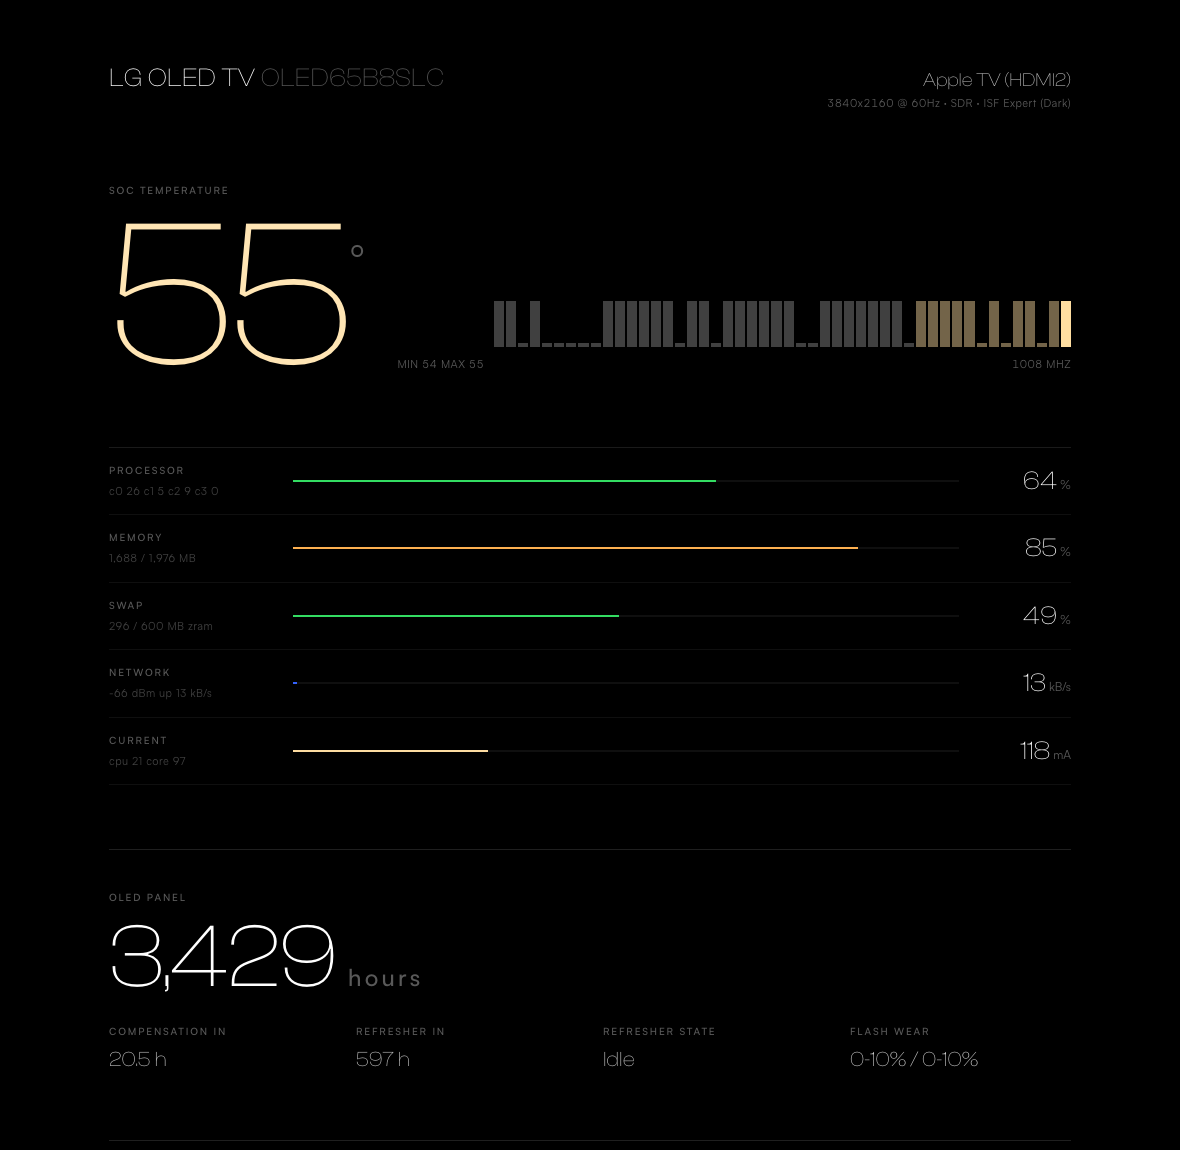
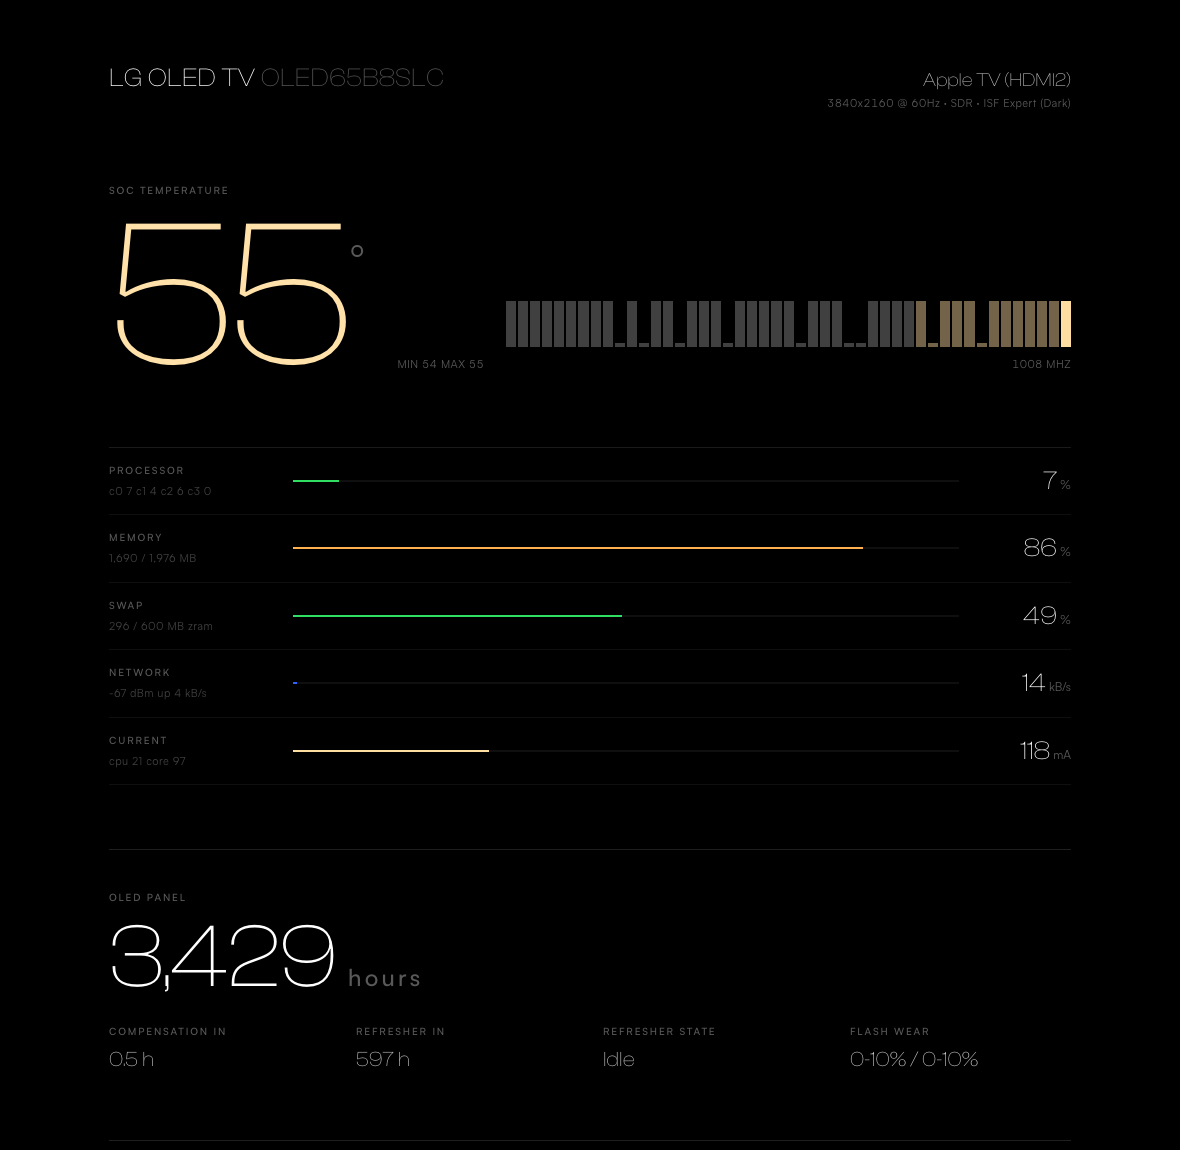
Correct the Off-RS interval: 24 units is 4 hours, not 24
Fixes the regression introduced in the previous commit. The value 24 in
autoOffRsIntervalHomeMode is expressed in the same 10-minute units as
panelUsageTime and lastCompensationTimestamp - the counters it is
compared against - so it means 24 * 10min = 4 hours, matching LG's
documented cumulative-viewing cycle. It is not 24 hours.

The earlier reading came from assuming the pnwash directory used one
unit throughout. It does not: autoOffRsTime is in whole panel hours
while the interval is in 10-minute units. That is now spelled out in a
comment so the next reader does not repeat the mistake, with a sanity
guard rejecting an interval outside 0.5-24h.

The original hardcoded 4.0 was therefore right; this keeps the correct
figure while sourcing it from the TV rather than assuming it, and
exposes comp_interval_units alongside the hours so the conversion can
be checked.

On a live set 3.5h into the cycle: 20.5h (wrong) -> 0.5h (correct).
Screenshots regenerated.

diff --git a/server/tvweb.js b/server/tvweb.js
@@ -311,13 +311,22 @@ function refreshOledStats(picSettings, cb) {
   var lastRefresher = autoPnwashRaw ? parseInt(autoPnwashRaw, 10) : 0;
 
   /*
-   * The short Off-RS compensation interval is NOT a fixed 4 hours: the TV
-   * publishes it, and on a set in Home mode it is 24. (4h appears to be the
-   * Store-mode figure.) Read it, and fall back to 24 rather than 4.
+   * Short Off-RS compensation interval. The file reads 24 on this set, which
+   * is NOT 24 hours: it is expressed in the same 10-minute units as
+   * panelUsageTime and lastCompensationTimestamp, the counters it gets
+   * compared against. 24 * 10min = 4h, which is LG's documented cumulative
+   * viewing cycle.
+   *
+   * Note the directory is not internally consistent - autoOffRsTime alongside
+   * it IS in whole panel hours - so do not "simplify" this by assuming one
+   * unit throughout.
    */
   var compIntervalRaw = rd('/mnt/lg/cmn_data/pnwash/autoOffRsIntervalHomeMode');
-  var compInterval = parseInt(compIntervalRaw, 10);
-  if (!compInterval || compInterval <= 0) compInterval = 24;
+  var compIntervalUnits = parseInt(compIntervalRaw, 10);
+  if (!compIntervalUnits || compIntervalUnits <= 0) compIntervalUnits = 24;
+  var compInterval = Math.round((compIntervalUnits * 10 / 60) * 10) / 10;
+  // Guard against a value in an unexpected unit producing a nonsense countdown.
+  if (compInterval < 0.5 || compInterval > 24) compInterval = 4;
 
   /* Deep Pixel Refresher ("Panel Wash") cadence. Not exposed anywhere on the
      set, so it stays an assumption - named rather than buried in an expression. */
@@ -353,6 +362,7 @@ function refreshOledStats(picSettings, cb) {
           hours_since_comp: hoursSinceComp,
           hours_until_comp: hoursUntilComp,
           comp_interval_hours: compInterval,
+          comp_interval_units: compIntervalUnits,
           refresher_interval_hours: REFRESHER_INTERVAL_HOURS,
           last_refresher_hours: lastRefresher,
           hours_since_refresher: hoursSinceRefresher,
